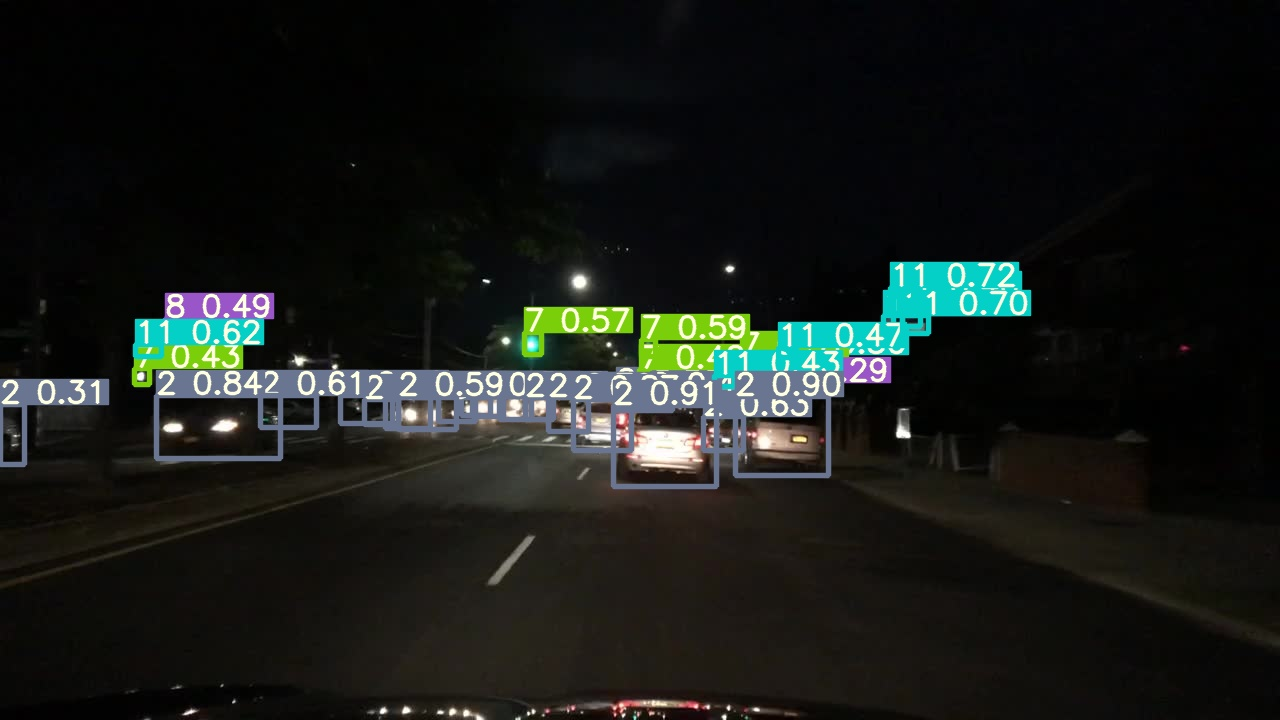
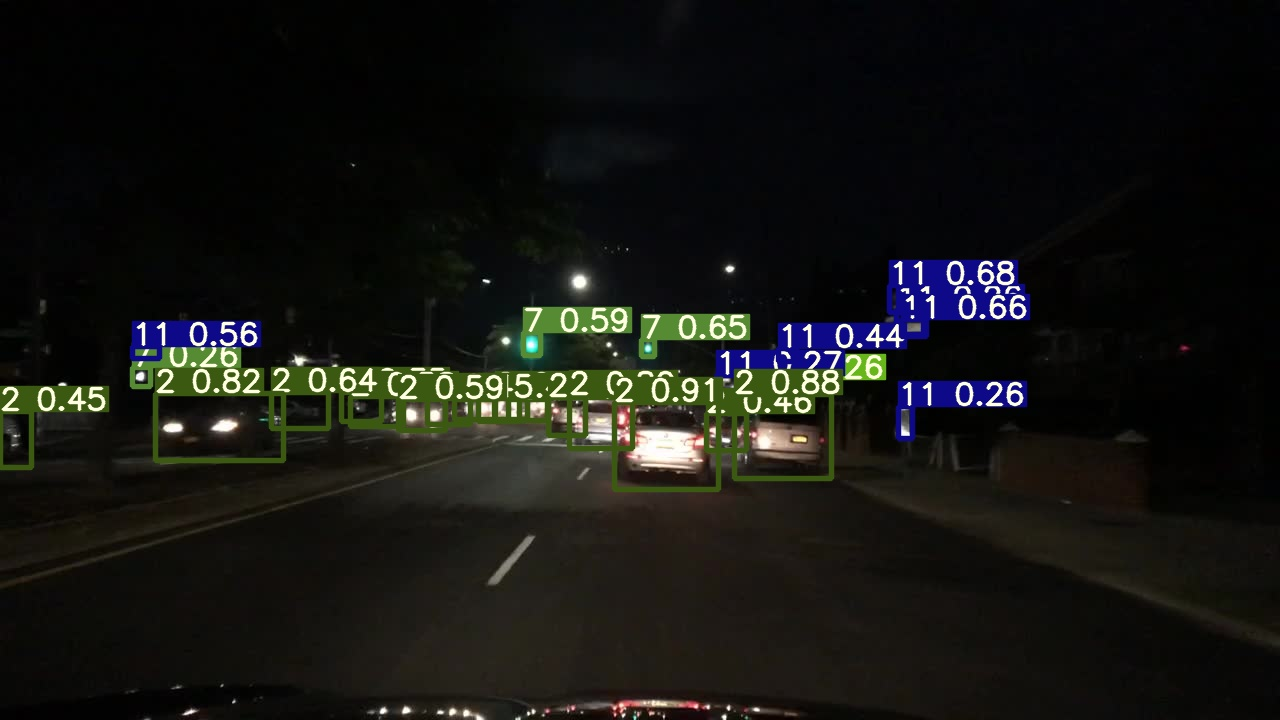
demo for test-seg

Changed region(s): [[0.0, 0.3361, 0.8125, 0.7028]]

diff --git a/tools/detect.py b/tools/detect.py
@@ -22,7 +22,7 @@ from lib.utils.utils import create_logger, select_device, time_synchronized
 from lib.models import get_net
 from lib.dataset import LoadImages
 from lib.core.general import non_max_suppression, scale_coords
-from visualization import plot_one_box
+from visualization import plot_one_box,show_seg_result
 from lib.core import AverageMeter
 
 normalize = transforms.Normalize(
@@ -33,6 +33,14 @@ transform=transforms.Compose([
             transforms.ToTensor(),
             normalize,
         ])
+
+tf = transforms.Compose(
+            [
+                transforms.ToPILImage(),
+                transforms.Resize((720, 1280)),
+                transforms.ToTensor()
+            ]
+        )
 
 def detect(cfg,opt):
 
@@ -73,7 +81,7 @@ def detect(cfg,opt):
 
     inf_time = AverageMeter()
     nms_time = AverageMeter()
-    for path, img, im0s, vid_cap in dataset:
+    for path, img, im0s, vid_cap,shapes in dataset:
         img = transform(img).to(device)
         img = img.half() if half else img.float()  # uint8 to fp16/32
         if img.ndimension() == 3:
@@ -94,29 +102,45 @@ def detect(cfg,opt):
         t4 = time_synchronized()
         print("non max suppression: "+str(t4-t3))
         nms_time.update(t4-t3,img.size(0))
+        det=det_pred[0]
 
-        for i, det in enumerate(det_pred):
-            save_path = str(opt.save_dir +'/'+ Path(path).name)
-            img_det = cv2.imread(path)
-            if len(det):
-                det[:,:4] = scale_coords(img.shape[2:],det[:,:4],img_det.shape).round()
-                for *xyxy,conf,cls in reversed(det):
-                    label_det_pred = f'{names[int(cls)]} {conf:.2f}'
-                    plot_one_box(xyxy, img_det , label=label_det_pred, color=colors[int(cls)], line_thickness=3)
-            if dataset.mode == 'images':
-                cv2.imwrite(save_path,img_det)
-            else:
-                if vid_path != save_path:  # new video
-                    vid_path = save_path
-                    if isinstance(vid_writer, cv2.VideoWriter):
-                        vid_writer.release()  # release previous video writer
+        img_det = cv2.imread(path)
+        #img_seg = img_det.copy()
+        save_path = str(opt.save_dir +'/'+ Path(path).name)
 
-                    fourcc = 'mp4v'  # output video codec
-                    fps = vid_cap.get(cv2.CAP_PROP_FPS)
-                    w = int(vid_cap.get(cv2.CAP_PROP_FRAME_WIDTH))
-                    h = int(vid_cap.get(cv2.CAP_PROP_FRAME_HEIGHT))
-                    vid_writer = cv2.VideoWriter(save_path, cv2.VideoWriter_fourcc(*fourcc), fps, (w, h))
-                vid_writer.write(img_det)
+        height, width = shapes[0]
+        pad_w, pad_h = shapes[1][1]
+        pad_w = int(pad_w)
+        pad_h = int(pad_h)
+        _,predict=torch.max(seg_out, 1)
+        predict = predict[pad_h:height-pad_h, pad_w:width-pad_w]
+
+        seg_mask = predict.float()
+        seg_mask = tf(seg_mask.cpu())
+        seg_mask = seg_mask.int().squeeze().cpu().numpy()
+        show_seg_result(img_det, seg_mask, _, _, is_demo=True)
+
+        if len(det):
+            det[:,:4] = scale_coords(img.shape[2:],det[:,:4],img_det.shape).round()
+            for *xyxy,conf,cls in reversed(det):
+                label_det_pred = f'{names[int(cls)]} {conf:.2f}'
+                plot_one_box(xyxy, img_det , label=label_det_pred, color=colors[int(cls)], line_thickness=3)
+        
+        if dataset.mode == 'images':
+            cv2.imwrite(save_path,img_det)
+
+        else:
+            if vid_path != save_path:  # new video
+                vid_path = save_path
+                if isinstance(vid_writer, cv2.VideoWriter):
+                    vid_writer.release()  # release previous video writer
+
+                fourcc = 'mp4v'  # output video codec
+                fps = vid_cap.get(cv2.CAP_PROP_FPS)
+                w = int(vid_cap.get(cv2.CAP_PROP_FRAME_WIDTH))
+                h = int(vid_cap.get(cv2.CAP_PROP_FRAME_HEIGHT))
+                vid_writer = cv2.VideoWriter(save_path, cv2.VideoWriter_fourcc(*fourcc), fps, (w, h))
+            vid_writer.write(img_det)
 
     print('Results saved to %s' % Path(opt.save_dir))
     print('Done. (%.3fs)' % (time.time() - t0))
@@ -125,9 +149,9 @@ def detect(cfg,opt):
 
 if __name__ == '__main__':
     parser = argparse.ArgumentParser()
-    parser.add_argument('--weights', nargs='+', type=str, default='/workspace/wh/projects/DaChuang/runs/BddDataset/_2021-01-22-10-23/epoch-70.pth', help='model.pth path(s)')
+    parser.add_argument('--weights', nargs='+', type=str, default='/workspace/wh/projects/DaChuang/weights/epoch-78.pth', help='model.pth path(s)')
     parser.add_argument('--source', type=str, default='inference/images', help='source')  # file/folder, 0 for webcam
-    parser.add_argument('--img-size', type=int, default=640, help='inference size (pixels)')
+    parser.add_argument('--img-size', type=int, default=512, help='inference size (pixels)')
     parser.add_argument('--conf-thres', type=float, default=0.25, help='object confidence threshold')
     parser.add_argument('--iou-thres', type=float, default=0.45, help='IOU threshold for NMS')
     parser.add_argument('--device', default='', help='cuda device, i.e. 0 or 0,1,2,3 or cpu')

diff --git a/lib/dataset/DemoDataset.py b/lib/dataset/DemoDataset.py
@@ -70,6 +70,7 @@ class LoadImages:  # for inference
                     path = self.files[self.count]
                     self.new_video(path)
                     ret_val, img0 = self.cap.read()
+            h0, w0 = img0.shape[:2]
 
             self.frame += 1
             print('video %g/%g (%g/%g) %s: ' % (self.count + 1, self.nf, self.frame, self.nframes, path), end='')
@@ -80,16 +81,20 @@ class LoadImages:  # for inference
             img0 = cv2.imread(path)  # BGR
             assert img0 is not None, 'Image Not Found ' + path
             print('image %g/%g %s: \n' % (self.count, self.nf, path), end='')
+            h0, w0 = img0.shape[:2]
 
         # Padded resize
-        img = letterbox_for_img(img0, new_shape=self.img_size)[0]
+        img, ratio,pad = letterbox_for_img(img0, new_shape=self.img_size)
+        h, w = img.shape[:2]
+        shapes = (h0, w0), ((h / h0, w / w0), pad)
 
         # Convert
         #img = img[:, :, ::-1].transpose(2, 0, 1)  # BGR to RGB, to 3x416x416
         img = np.ascontiguousarray(img)
 
+
         # cv2.imwrite(path + '.letterbox.jpg', 255 * img.transpose((1, 2, 0))[:, :, ::-1])  # save letterbox image
-        return path, img, img0, self.cap
+        return path, img, img0, self.cap, shapes
 
     def new_video(self, path):
         self.frame = 0

diff --git a/visualization/plot.py b/visualization/plot.py
@@ -21,7 +21,7 @@ def plot_img_and_mask(img, mask, index,epoch,save_dir):
     # plt.show()
     plt.savefig(save_dir+"/batch_{}_{}_seg.png".format(epoch,index))
 
-def show_seg_result(img, result, index, epoch, save_dir=None, palette=None):
+def show_seg_result(img, result, index, epoch, save_dir=None, palette=None,is_demo=False):
         # img = mmcv.imread(img)
         # img = img.copy()
         # seg = result[0]
@@ -42,7 +42,8 @@ def show_seg_result(img, result, index, epoch, save_dir=None, palette=None):
         img = img * 0.5 + color_seg * 0.5
         img = img.astype(np.uint8)
 
-        cv2.imwrite(save_dir+"/batch_{}_{}_segresult.png".format(epoch,index), img)
+        if not is_demo:
+            cv2.imwrite(save_dir+"/batch_{}_{}_segresult.png".format(epoch,index), img)
 
 def plot_one_box(x, img, color=None, label=None, line_thickness=None):
     # Plots one bounding box on image img

diff --git a/lib/config/default.py b/lib/config/default.py
@@ -6,7 +6,7 @@ from yacs.config import CfgNode as CN
 _C = CN()
 
 _C.LOG_DIR = 'runs/'
-_C.GPUS = (0, 1)
+_C.GPUS = (0, 1 ,2)
 _C.WORKERS = 4
 _C.PIN_MEMORY = True
 _C.PRINT_FREQ = 20
@@ -44,9 +44,9 @@ _C.LOSS.SEG_GAIN = 1.0  # segmentation loss gain
 
 # DATASET related params
 _C.DATASET = CN(new_allowed=True)
-_C.DATASET.DATAROOT = '/home/mwliao/bdd/bdd100k/images/100k'
-_C.DATASET.LABELROOT = '/home/mwliao/bdd/bdd100k/labels/100k'
-_C.DATASET.MASKROOT = '/home/mwliao/bdd/bdd100k/bdd_seg_gt'
+_C.DATASET.DATAROOT = '/workspace/wh/projects/DaChuang/bdd/images'
+_C.DATASET.LABELROOT = '/workspace/wh/projects/DaChuang/bdd/labels/100k'
+_C.DATASET.MASKROOT = '/workspace/wh/projects/DaChuang/bdd/bdd_seg_gt'
 _C.DATASET.DATASET = 'BddDataset'
 _C.DATASET.TRAIN_SET = 'train'
 _C.DATASET.TEST_SET = 'val'

diff --git a/lib/core/function.py b/lib/core/function.py
@@ -328,7 +328,8 @@ def validate(epoch,config, val_loader, val_dataset, model, criterion, output_dir
                     confusion_matrix.process_batch(pred, torch.cat((labels[:, 0:1], tbox), 1))
 
                 # Per target class
-                for cls in torch.unique(tcls_tensor):   #用于去重，图片有多少�?                    ti = (cls == tcls_tensor).nonzero(as_tuple=False).view(-1)  # prediction indices
+                for cls in torch.unique(tcls_tensor):   #用于去重，图片有多少�?                    
+                    ti = (cls == tcls_tensor).nonzero(as_tuple=False).view(-1)  # prediction indices
                     pi = (cls == pred[:, 5]).nonzero(as_tuple=False).view(-1)  # target indices
 
                     # Search for detections

diff --git a/lib/core/loss.py b/lib/core/loss.py
@@ -122,9 +122,10 @@ class MultiHeadLoss(nn.Module):
         # bs = tobj.shape[0]  # batch size
         if cfg.TRAIN.FREEZE_SEG:
             lseg = 0 * lseg
-            # lbox = 0 * lbox
-            # lobj = 0 * lobj
-            # lcls = 0 * lcls
+        else:
+            lbox = 0 * lbox
+            lobj = 0 * lobj
+            lcls = 0 * lcls
 
         loss = lbox + lobj + lcls + lseg
         # loss = lseg

diff --git a/lib/utils/utils.py b/lib/utils/utils.py
@@ -85,7 +85,8 @@ def get_optimizer(cfg, model):
         )
     elif cfg.TRAIN.OPTIMIZER == 'adam':
         optimizer = optim.Adam(
-            filter(lambda p: p.requires_grad, model.parameters()),
+            #filter(lambda p: p.requires_grad, model.parameters()),
+            model.parameters(),
             lr=cfg.TRAIN.LR0,
             betas=(cfg.TRAIN.MOMENTUM, 0.999)
         )
